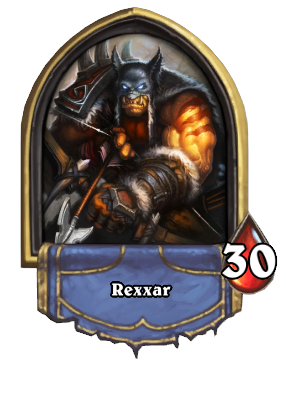
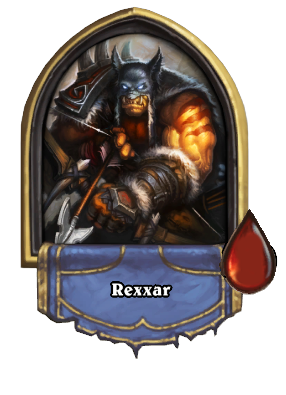
Vidas Actuliza

Changed region(s): [[0.7552, 0.5165, 0.979, 0.7595]]

diff --git a/Nueva carpeta/EntregaFinalPOOO/MainWindow.xaml b/Nueva carpeta/EntregaFinalPOOO/MainWindow.xaml
@@ -55,11 +55,9 @@
         <GroupBox x:Name="datos" Header="Informacion de la carta&#xA;" HorizontalAlignment="Left" Height="161" Margin="9,259,0,0" VerticalAlignment="Top" Width="212">
             <Label x:Name="popo" Content="" HorizontalAlignment="Left" VerticalAlignment="Top" Height="152" Width="201" MouseEnter="popo_MouseEnter" MouseLeave="popo_MouseLeave" Margin="0,-18,-2,-11" Foreground="White" />
         </GroupBox>
-        <TextBlock x:Name="Datosj1" HorizontalAlignment="Left" Margin="895,420,0,0" TextWrapping="Wrap" VerticalAlignment="Top" Height="77" Width="128" Text="Vida:&#xA;Mana Total :&#xA;Mana Disponible:" FontWeight="Bold" FontSize="14" Foreground="White"/>
-        <TextBlock x:Name="datosj2" HorizontalAlignment="Left" Margin="929,124,0,0" TextWrapping="Wrap" VerticalAlignment="Top" Height="71" Width="120" FontSize="14" FontWeight="Bold" Foreground="#FFFDFBFB"><Run Text="Vida:"/><LineBreak/><Run Text="Mana Total:"/><LineBreak/><Run Text="Mana Disponible:"/></TextBlock>
-        <Label x:Name="Vida2" Content="Label" HorizontalAlignment="Left" Margin="978,119,0,0" VerticalAlignment="Top" Height="24" FontSize="14" FontWeight="Bold" Background="{x:Null}" Foreground="#FFFBFBFB"/>
+        <TextBlock x:Name="Datosj1" HorizontalAlignment="Left" Margin="895,420,0,0" TextWrapping="Wrap" VerticalAlignment="Top" Height="77" Width="128" Text="Mana Total :&#xA;Mana Disponible:" FontWeight="Bold" FontSize="14" Foreground="White"/>
+        <TextBlock x:Name="datosj2" HorizontalAlignment="Left" Margin="929,124,0,0" TextWrapping="Wrap" VerticalAlignment="Top" Height="71" Width="120" FontSize="14" FontWeight="Bold" Foreground="#FFFDFBFB"><Run Text=""/><LineBreak/><Run Text="Mana Total:"/><LineBreak/><Run Text="Mana Disponible:"/></TextBlock>
         <Label x:Name="manadisponible2" Content="Label" HorizontalAlignment="Left" Margin="1049,160,0,0" VerticalAlignment="Top" FontSize="14" FontWeight="Bold" Background="{x:Null}" Foreground="#FFFBF8F8"/>
-        <Label x:Name="vida1" Content="Label" HorizontalAlignment="Left" Margin="929,415,0,0" VerticalAlignment="Top" Height="34" Width="47" FontSize="14" FontWeight="Bold" Foreground="#FFF9F4F4"/>
         <Label x:Name="manatot1" Content="Label" HorizontalAlignment="Left" Margin="976,431,0,0" VerticalAlignment="Top" Height="34" Width="47" FontSize="14" FontWeight="Bold" Foreground="#FFF9F4F4"/>
         <Label x:Name="manadisp" Content="Label" HorizontalAlignment="Left" Margin="1009,450,0,0" VerticalAlignment="Top" Height="34" RenderTransformOrigin="0.5,0.5" Width="47" FontSize="14" FontWeight="Bold" Foreground="#FFF7F4F4">
 
@@ -175,6 +173,8 @@
         </StackPanel>
         <Button x:Name="audio" Content="Button" HorizontalAlignment="Left" Margin="64,520,0,0" VerticalAlignment="Top" Width="75" Click="audio_Click"/>
         <Button x:Name="weapon1_" Content="Button" HorizontalAlignment="Left" Margin="420,515,0,0" VerticalAlignment="Top" Width="102" Height="49" Click="weapon1__Click" MouseEnter="weapon1__MouseEnter"/>
+        <Label x:Name="vida1" Content="Label" HorizontalAlignment="Left" Margin="654,609,0,0" VerticalAlignment="Top" Height="38" Width="47" FontSize="14" FontWeight="Bold" Foreground="#FFF9F4F4"/>
+        <Label x:Name="Vida2" Content="Label" HorizontalAlignment="Left" Margin="654,155,0,0" VerticalAlignment="Top" Height="40" FontSize="14" FontWeight="Bold" Background="{x:Null}" Foreground="#FFFBFBFB" Width="47" RenderTransformOrigin="0.519,0.66"/>
 
 
 
